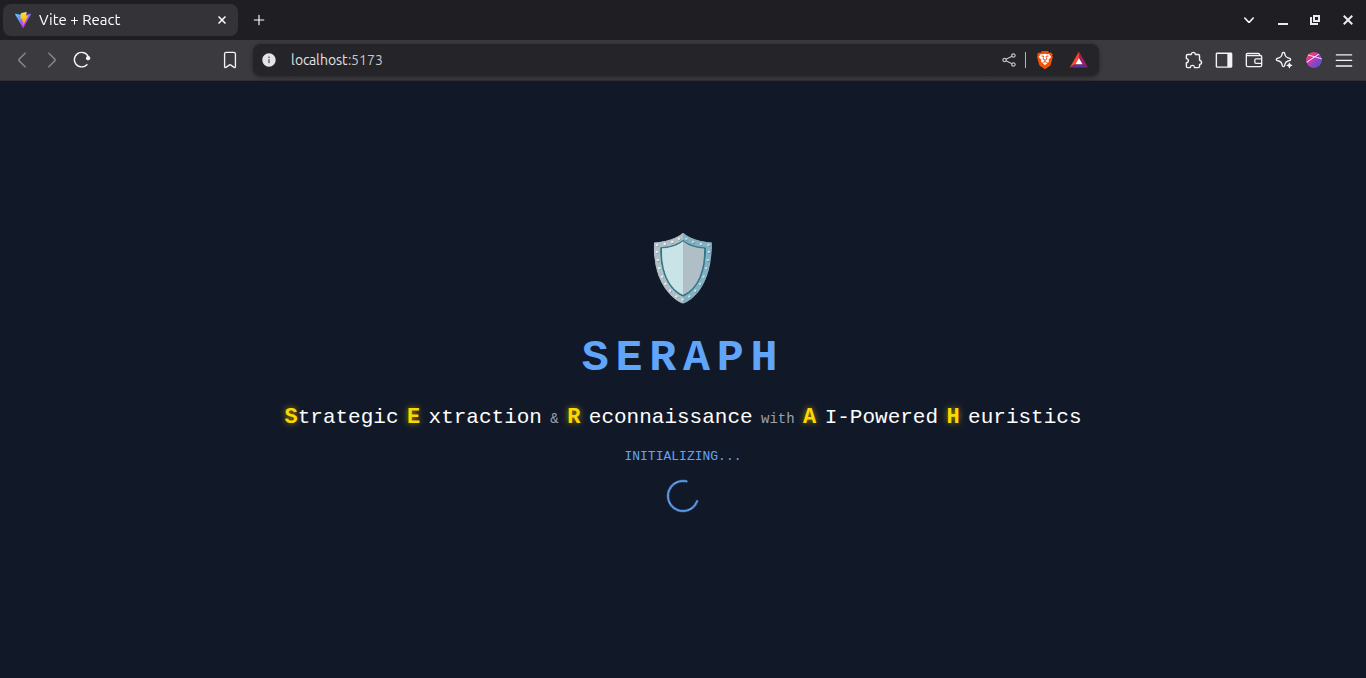
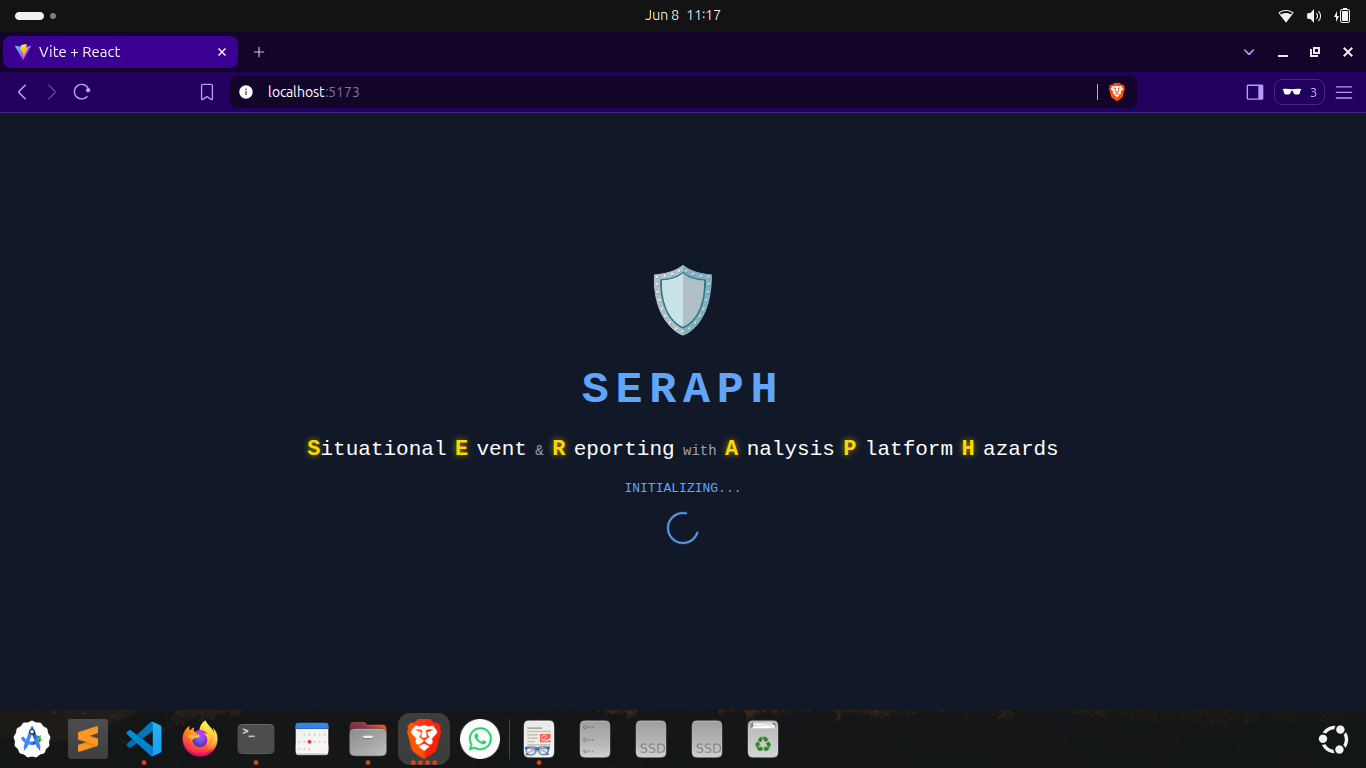
docs : changed full form(AI Generated)

diff --git a/src/components/LoadingScreen.jsx b/src/components/LoadingScreen.jsx
@@ -53,35 +53,41 @@ const LoadingScreen = () => (
       fontWeight: 'bold',
       fontSize: '22px',
       textShadow: '0 0 6px rgba(255, 215, 0, 0.6)'
-    }}>S</span><span style={{ color: 'white', fontSize: '21px' }}>trategic</span>&nbsp;
+    }}>S</span><span style={{ color: 'white', fontSize: '21px' }}>ituational</span>&nbsp;
 
     <span style={{
       color: '#FFD700',
       fontWeight: 'bold',
       fontSize: '22px',
       textShadow: '0 0 6px rgba(255, 215, 0, 0.6)'
-    }}>E</span>    <span style={{ color: 'white', fontSize: '21px' }}>xtraction</span>&nbsp;&amp;&nbsp;
+    }}>E</span>    <span style={{ color: 'white', fontSize: '21px' }}>vent</span>&nbsp;&amp;&nbsp;
 
     <span style={{
       color: '#FFD700',
       fontWeight: 'bold',
       fontSize: '22px',
       textShadow: '0 0 6px rgba(255, 215, 0, 0.6)'
-    }}>R</span>    <span style={{ color: 'white', fontSize: '21px' }}>econnaissance</span>&nbsp;with&nbsp;
+    }}>R</span>    <span style={{ color: 'white', fontSize: '21px' }}>eporting</span>&nbsp;with&nbsp;
 
     <span style={{
       color: '#FFD700',
       fontWeight: 'bold',
       fontSize: '22px',
       textShadow: '0 0 6px rgba(255, 215, 0, 0.6)'
-    }}>A</span>    <span style={{ color: 'white', fontSize: '21px' }}>I-Powered</span>&nbsp;
+    }}>A</span>    <span style={{ color: 'white', fontSize: '21px' }}>nalysis</span>&nbsp;
+ <span style={{
+      color: '#FFD700',
+      fontWeight: 'bold',
+      fontSize: '22px',
+      textShadow: '0 0 6px rgba(255, 215, 0, 0.6)'
+    }}>P</span>    <span style={{ color: 'white', fontSize: '21px' }}>latform</span>&nbsp;
 
     <span style={{
       color: '#FFD700',
       fontWeight: 'bold',
       fontSize: '22px',
       textShadow: '0 0 6px rgba(255, 215, 0, 0.6)'
-    }}>H</span> <span style={{ color: 'white', fontSize: '21px' }}>euristics</span>
+    }}>H</span> <span style={{ color: 'white', fontSize: '21px' }}>azards</span>
 </div>
         {/* INITIALIZING TEXT */}
         <div style={styles.loadingText}>INITIALIZING...</div>
